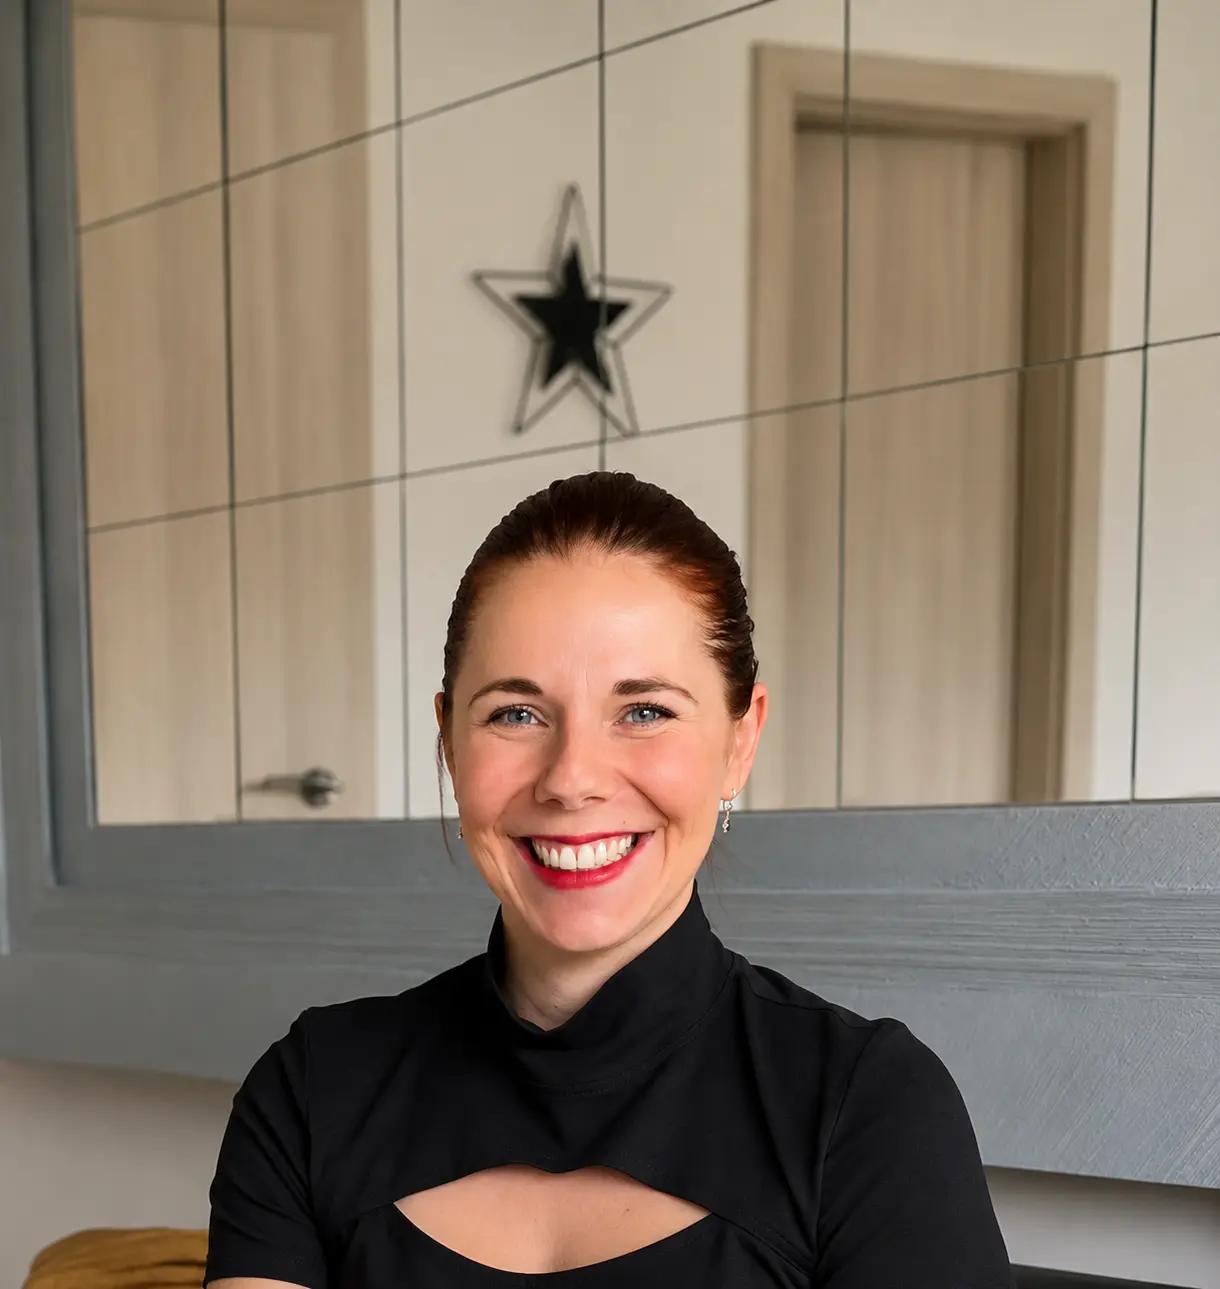
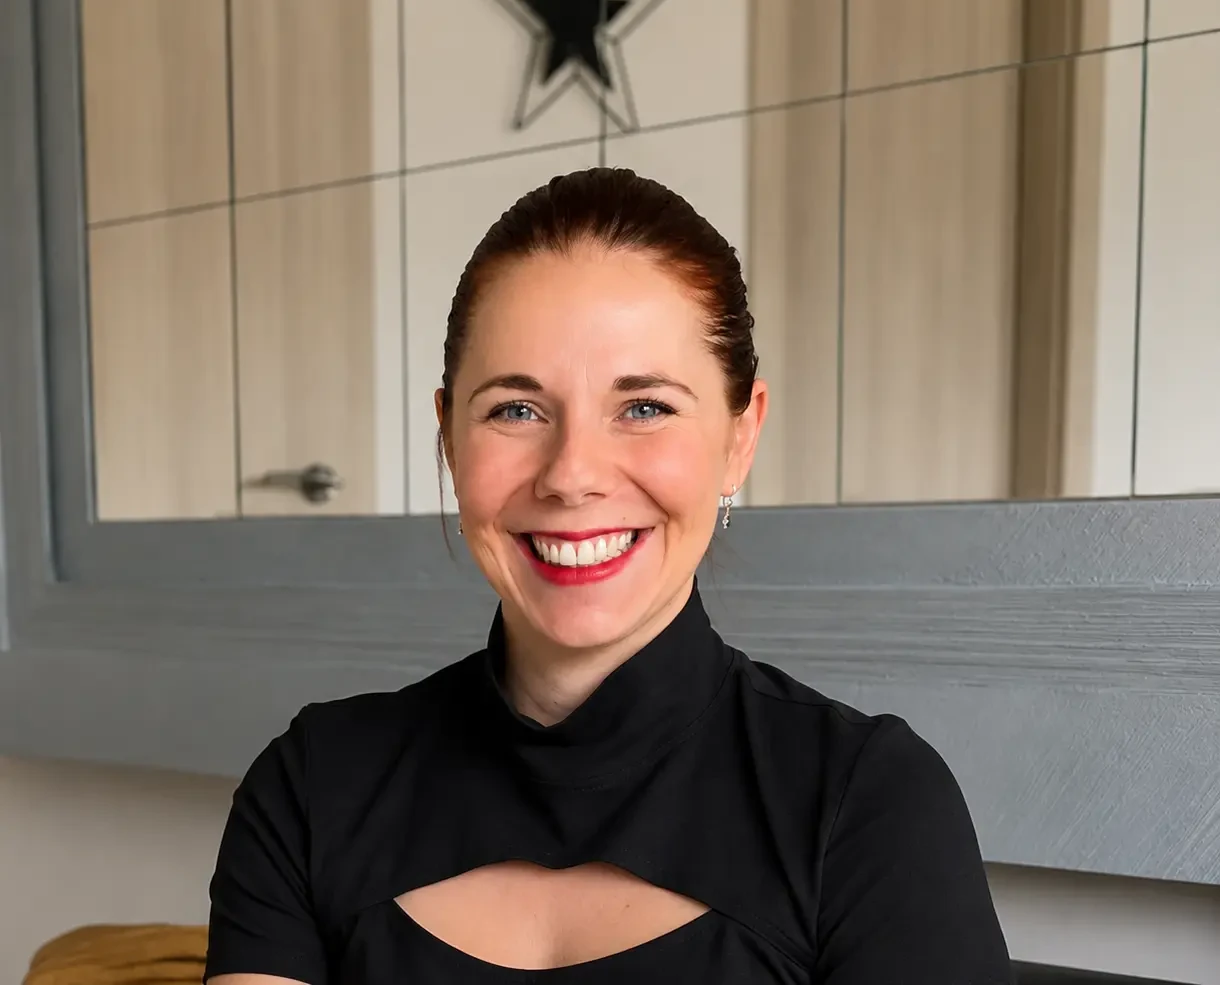
edited katka.webp

diff --git a/index.html b/index.html
@@ -4,6 +4,7 @@
     <meta charset="UTF-8">
     <meta name="viewport" content="width=device-width, initial-scale=1.0">
     <title>Alessa Nails Studio</title>
+    <meta name="description" content="Alessa Nails Studio - Profesionální nehtové studio v Újezdě nad Lesy, Praha 9. Nabízíme manikúru, pedikúru, gelovou modeláž, nehtová rovnátka a kosmetické služby.">
     <link rel="icon" type="image/x-icon" href="logo.ico">
     <script src="https://cdn.jsdelivr.net/npm/@tailwindcss/browser@4"></script>
     <link rel="preconnect" href="https://fonts.googleapis.com">
@@ -53,6 +54,9 @@
 </head>
 <body class="min-h-screen flex flex-col justify-between antialiased">
 
+<!-- Skip to main content link for screen reader and keyboard accessibility -->
+<a href="#main-content" class="sr-only focus:not-sr-only focus:fixed focus:top-2 focus:left-2 focus:z-[100] focus:px-4 focus:py-2 focus:bg-white focus:text-[#A86A91] focus:rounded-lg focus:shadow-md focus:outline-none">Přejít k hlavnímu obsahu</a>
+
 <!-- Speciální nabídka (Banner) - Zde můžete změnit text akce -->
 <div id="promo-banner" class="bg-[#A86A91] text-white text-xs md:text-sm py-2.5 px-4 transition-all duration-300 relative z-50">
     <div class="max-w-6xl mx-auto flex items-center justify-between">
@@ -60,8 +64,8 @@
             <span class="inline-flex items-center bg-white/20 px-2 py-0.5 rounded text-[10px] uppercase font-bold tracking-wider">Akce</span>
             <span>Speciální nabídka: Připravujeme pro vás nové letní slevy a procedury! Sledujte náš web.</span>
         </div>
-        <button onclick="dismissBanner()" class="ml-4 text-white/80 hover:text-white transition-colors p-1 cursor-pointer shrink-0" aria-label="Zavřít">
-            <svg class="h-4 w-4" fill="none" viewBox="0 0 24 24" stroke="currentColor">
+        <button onclick="dismissBanner()" class="ml-4 text-white/80 hover:text-white transition-colors p-1 cursor-pointer shrink-0" aria-label="Zavřít oznámení">
+            <svg class="h-4 w-4" fill="none" viewBox="0 0 24 24" stroke="currentColor" aria-hidden="true">
                 <path stroke-linecap="round" stroke-linejoin="round" stroke-width="2" d="M6 18L18 6M6 6l12 12" />
             </svg>
         </button>
@@ -71,11 +75,11 @@
 <header class="bg-white/85 backdrop-blur-md sticky top-0 z-50 border-b border-[#F7E5F0]">
     <div class="max-w-6xl mx-auto px-4 py-4 flex items-center justify-between">
         <a href="#" onclick="switchTab('uvod')" class="flex items-center space-x-2">
-            <img src="logo.png" alt="Alessa Nails Studio" class="h-12 w-auto object-contain fallback-logo" onerror="this.style.display='none'; document.getElementById('logo-text').style.display='block'">
+            <img src="logo.png" alt="Alessa Nails Studio logo" class="h-12 w-auto object-contain fallback-logo" onerror="this.style.display='none'; document.getElementById('logo-text').style.display='block'">
             <span id="logo-text" class="text-xl tracking-wide font-serif accent-text hidden">Alessa Nails Studio</span>
         </a>
 
-        <nav class="hidden md:flex space-x-8 text-sm font-medium tracking-wide">
+        <nav class="hidden md:flex space-x-8 text-sm font-medium tracking-wide" aria-label="Hlavní navigace">
             <button onclick="switchTab('uvod')" class="nav-link cursor-pointer transition-colors duration-200 hover:text-[#A86A91]" id="nav-uvod">Úvod</button>
             <button onclick="switchTab('cenik')" class="nav-link cursor-pointer transition-colors duration-200 hover:text-[#A86A91]" id="nav-cenik">Ceník</button>
             <button onclick="switchTab('galerie')" class="nav-link cursor-pointer transition-colors duration-200 hover:text-[#A86A91]" id="nav-galerie">Galerie</button>
@@ -84,8 +88,8 @@
 
         <div class="flex items-center space-x-4">
             <a href="#" onclick="switchTab('kontakt')" class="hidden sm:inline-block accent-bg text-white text-xs font-semibold tracking-wider px-5 py-2.5 rounded hover:bg-[#C88FB0] transition-colors duration-300 shadow-sm uppercase">Rezervovat</a>
-            <button id="menu-btn" onclick="toggleSidebar(true)" class="md:hidden flex items-center justify-center p-2 rounded-lg text-gray-600 hover:text-[#A86A91] hover:bg-[#FCF4F8] transition-colors focus:outline-none cursor-pointer" aria-label="Menu">
-                <svg class="h-6 w-6" fill="none" viewBox="0 0 24 24" stroke="currentColor">
+            <button id="menu-btn" onclick="toggleSidebar(true)" class="md:hidden flex items-center justify-center p-2 rounded-lg text-gray-600 hover:text-[#A86A91] hover:bg-[#FCF4F8] transition-colors focus:outline-none cursor-pointer" aria-label="Otevřít menu" aria-expanded="false" aria-controls="mobile-sidebar-container">
+                <svg class="h-6 w-6" fill="none" viewBox="0 0 24 24" stroke="currentColor" aria-hidden="true">
                     <path stroke-linecap="round" stroke-linejoin="round" stroke-width="2" d="M4 6h16M4 12h16M4 18h16" />
                 </svg>
             </button>
